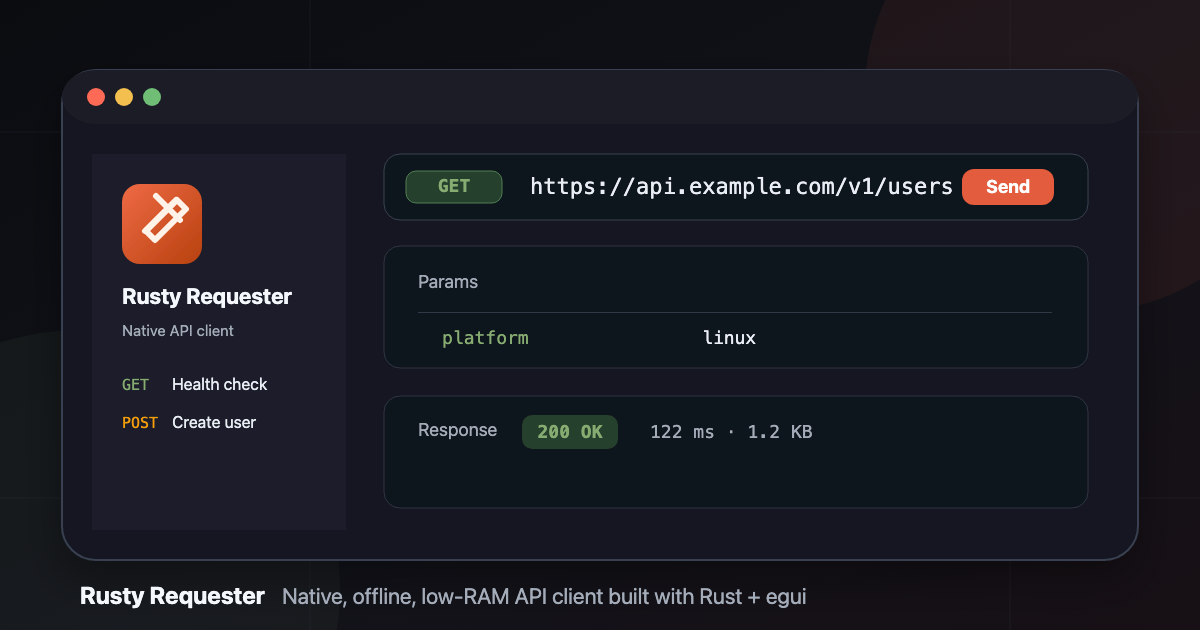
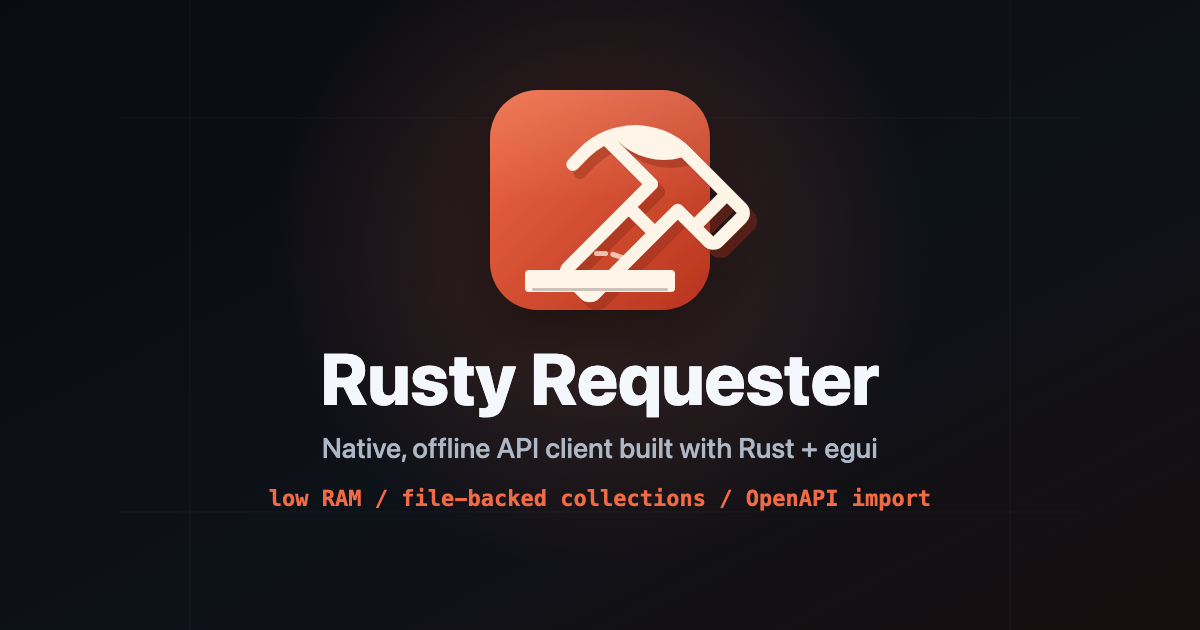
Add response find navigation

diff --git a/src/ui/response.rs b/src/ui/response.rs
@@ -4,7 +4,7 @@
 //! empty state.
 
 use crate::model::*;
-use crate::snippet::build_json_layout_job_content_only_with_search;
+use crate::snippet::build_json_layout_job_content_only_with_search_active;
 use crate::theme::*;
 use crate::widgets::*;
 use crate::ApiClient;
@@ -527,17 +527,24 @@ impl ApiClient {
                                             .color(muted()),
                                         );
                                         let close_w = 22.0;
+                                        if self.body_search_query != self.body_search_last_query {
+                                            self.body_search_last_query =
+                                                self.body_search_query.clone();
+                                            self.body_search_active_match = 0;
+                                        }
                                         let match_count = count_case_insensitive_matches(
                                             &self.response_text,
                                             &self.body_search_query,
                                         );
-                                        let count_text = if self.body_search_query.is_empty() {
-                                            String::new()
-                                        } else {
-                                            format!("{} hit{}", match_count, plural(match_count))
-                                        };
-                                        let count_w =
-                                            if count_text.is_empty() { 0.0 } else { 58.0 };
+                                        if self.body_search_active_match >= match_count {
+                                            self.body_search_active_match = 0;
+                                        }
+                                        let count_text = response_find_count_text(
+                                            &self.body_search_query,
+                                            match_count,
+                                            self.body_search_active_match,
+                                        );
+                                        let count_w = response_find_count_width(&count_text);
                                         let gap_w = if count_text.is_empty() {
                                             ui.spacing().item_spacing.x
                                         } else {
@@ -559,11 +566,24 @@ impl ApiClient {
                                             self.body_search_focus_pending = false;
                                             search_resp.request_focus();
                                         }
-                                        if search_resp.has_focus()
-                                            && ui.input(|i| i.key_pressed(egui::Key::Escape))
-                                        {
-                                            self.body_search_visible = false;
-                                            self.body_search_query.clear();
+                                        if search_resp.has_focus() {
+                                            if ui.input(|i| i.key_pressed(egui::Key::Escape)) {
+                                                self.body_search_visible = false;
+                                                self.body_search_query.clear();
+                                                self.body_search_last_query.clear();
+                                                self.body_search_active_match = 0;
+                                            }
+                                            if ui.input(|i| i.key_pressed(egui::Key::Enter))
+                                                && match_count > 0
+                                            {
+                                                let backward = ui.input(|i| i.modifiers.shift);
+                                                self.body_search_active_match =
+                                                    next_search_match_index(
+                                                        self.body_search_active_match,
+                                                        match_count,
+                                                        backward,
+                                                    );
+                                            }
                                         }
 
                                         if !count_text.is_empty() {
@@ -579,6 +599,8 @@ impl ApiClient {
                                         if close_x_button(ui, "Close search").clicked() {
                                             self.body_search_visible = false;
                                             self.body_search_query.clear();
+                                            self.body_search_last_query.clear();
+                                            self.body_search_active_match = 0;
                                         }
                                     },
                                 );
@@ -592,6 +614,8 @@ impl ApiClient {
             if self.body_search_visible {
                 self.body_search_visible = false;
                 self.body_search_query.clear();
+                self.body_search_last_query.clear();
+                self.body_search_active_match = 0;
             } else {
                 self.body_search_visible = true;
                 self.body_search_focus_pending = true;
@@ -864,11 +888,14 @@ impl ApiClient {
                                             .join("\n");
                                         let mut buf: &str = &displayed_text;
                                         let search = self.body_search_query.clone();
+                                        let active_match = self.body_search_active_match;
                                         let mut layouter =
                                             move |ui: &egui::Ui, s: &str, wrap_width: f32| {
                                                 let mut job =
-                                                    build_json_layout_job_content_only_with_search(
-                                                        s, &search,
+                                                    build_json_layout_job_content_only_with_search_active(
+                                                        s,
+                                                        &search,
+                                                        Some(active_match),
                                                     );
                                                 job.wrap.max_width = wrap_width;
                                                 ui.fonts(|f| f.layout_job(job))
@@ -1034,7 +1061,25 @@ fn render_response_metric(ui: &mut egui::Ui, value: &str) -> egui::Response {
 }
 
 fn response_find_width(available_width: f32) -> f32 {
-    available_width.clamp(0.0, 340.0)
+    available_width.clamp(0.0, 360.0)
+}
+
+fn response_find_count_text(query: &str, match_count: usize, active_match: usize) -> String {
+    if query.is_empty() {
+        String::new()
+    } else if match_count == 0 {
+        "0/0".to_string()
+    } else {
+        format!("{}/{}", active_match + 1, match_count)
+    }
+}
+
+fn response_find_count_width(count_text: &str) -> f32 {
+    if count_text.is_empty() {
+        0.0
+    } else {
+        (count_text.chars().count() as f32 * 7.0 + 14.0).clamp(42.0, 96.0)
+    }
 }
 
 fn response_find_input_width(
@@ -1056,11 +1101,13 @@ fn count_case_insensitive_matches(text: &str, query: &str) -> usize {
     text.match_indices(&query).count()
 }
 
-fn plural(count: usize) -> &'static str {
-    if count == 1 {
-        ""
+fn next_search_match_index(current: usize, match_count: usize, backward: bool) -> usize {
+    if match_count == 0 {
+        0
+    } else if backward {
+        current.checked_sub(1).unwrap_or(match_count - 1)
     } else {
-        "s"
+        (current + 1) % match_count
     }
 }
 
@@ -1768,13 +1815,30 @@ mod tests {
     fn response_find_width_is_bounded_for_narrow_and_wide_toolbars() {
         assert_eq!(response_find_width(120.0), 120.0);
         assert_eq!(response_find_width(240.0), 240.0);
-        assert_eq!(response_find_width(600.0), 340.0);
+        assert_eq!(response_find_width(600.0), 360.0);
     }
 
     #[test]
     fn response_find_input_width_reserves_count_and_close_controls() {
         assert_eq!(response_find_input_width(220.0, 0.0, 22.0, 6.0), 192.0);
-        assert_eq!(response_find_input_width(220.0, 58.0, 22.0, 12.0), 128.0);
-        assert_eq!(response_find_input_width(90.0, 58.0, 22.0, 12.0), 72.0);
+        assert_eq!(response_find_input_width(220.0, 42.0, 22.0, 12.0), 144.0);
+        assert_eq!(response_find_input_width(90.0, 42.0, 22.0, 12.0), 72.0);
+    }
+
+    #[test]
+    fn response_find_count_text_shows_active_and_total() {
+        assert_eq!(response_find_count_text("", 0, 0), "");
+        assert_eq!(response_find_count_text("ok", 0, 0), "0/0");
+        assert_eq!(response_find_count_text("ok", 3, 0), "1/3");
+        assert_eq!(response_find_count_text("ok", 3, 2), "3/3");
+    }
+
+    #[test]
+    fn response_find_enter_navigation_wraps() {
+        assert_eq!(next_search_match_index(0, 0, false), 0);
+        assert_eq!(next_search_match_index(0, 3, false), 1);
+        assert_eq!(next_search_match_index(2, 3, false), 0);
+        assert_eq!(next_search_match_index(0, 3, true), 2);
+        assert_eq!(next_search_match_index(2, 3, true), 1);
     }
 }

diff --git a/src/snippet.rs b/src/snippet.rs
@@ -248,7 +248,7 @@ pub fn build_json_layout_job_with_search(text: &str, search: &str) -> LayoutJob 
         highlight_json_line(&mut job, line, &font);
     }
     if let Some(q) = search_opt {
-        apply_search_highlight(&mut job, text, q);
+        apply_search_highlight(&mut job, text, q, None);
     }
     job
 }
@@ -257,6 +257,17 @@ pub fn build_json_layout_job_with_search(text: &str, search: &str) -> LayoutJob 
 /// line-number gutter. Pair with a separately-rendered gutter column
 /// so wrapped continuation rows don't collide with the line numbers.
 pub fn build_json_layout_job_content_only_with_search(text: &str, search: &str) -> LayoutJob {
+    build_json_layout_job_content_only_with_search_active(text, search, None)
+}
+
+/// Content-only JSON layout with a stronger background on the active
+/// zero-based search result. `active_match = None` highlights all matches
+/// with the regular search color.
+pub fn build_json_layout_job_content_only_with_search_active(
+    text: &str,
+    search: &str,
+    active_match: Option<usize>,
+) -> LayoutJob {
     let font = FontId::monospace(12.5);
     let mut job = LayoutJob::default();
     let search_lc = search.to_lowercase();
@@ -273,7 +284,7 @@ pub fn build_json_layout_job_content_only_with_search(text: &str, search: &str) 
         highlight_json_line(&mut job, line, &font);
     }
     if let Some(q) = search_opt {
-        apply_search_highlight(&mut job, text, q);
+        apply_search_highlight(&mut job, text, q, active_match);
     }
     job
 }
@@ -282,11 +293,18 @@ pub fn build_json_layout_job_content_only_with_search(text: &str, search: &str) 
 /// substring-matches `query` (case-insensitive). We walk the
 /// accumulated sections, find match ranges in the section's own text,
 /// and split sections so only matched chars get the highlight bg.
-fn apply_search_highlight(job: &mut LayoutJob, _full_text: &str, query: &str) {
+fn apply_search_highlight(
+    job: &mut LayoutJob,
+    _full_text: &str,
+    query: &str,
+    active_match: Option<usize>,
+) {
     let sections = std::mem::take(&mut job.sections);
     let text = job.text.clone();
     job.text.clear();
     let bg = Color32::from_rgba_unmultiplied(206, 66, 43, 120); // rust-orange highlight
+    let active_bg = Color32::from_rgba_unmultiplied(239, 106, 69, 210);
+    let mut seen = 0usize;
 
     for sec in sections {
         let slice = &text[sec.byte_range.clone()];
@@ -301,7 +319,18 @@ fn apply_search_highlight(job: &mut LayoutJob, _full_text: &str, query: &str) {
             if match_start > cursor {
                 append_section(job, &slice[cursor..match_start], &sec.format, None);
             }
-            append_section(job, &slice[match_start..match_end], &sec.format, Some(bg));
+            let match_bg = if active_match == Some(seen) {
+                active_bg
+            } else {
+                bg
+            };
+            append_section(
+                job,
+                &slice[match_start..match_end],
+                &sec.format,
+                Some(match_bg),
+            );
+            seen += 1;
             cursor = match_end;
             if cursor >= slice_lc.len() {
                 break;

diff --git a/src/main.rs b/src/main.rs
@@ -360,6 +360,12 @@ struct ApiClient {
     /// Search query for the JSON body view — highlights matches inline
     /// rather than filtering out non-matches.
     body_search_query: String,
+    /// Zero-based active response-body search result. Enter / Shift+Enter
+    /// advances this index while the inline search field is focused.
+    body_search_active_match: usize,
+    /// Last query used to compute `body_search_active_match`. When the
+    /// query changes, the active result resets to the first match.
+    body_search_last_query: String,
     /// Whether the inline search input is visible (toggled by the 🔍
     /// icon button in the body toolbar, or Cmd/Ctrl+F).
     body_search_visible: bool,
@@ -568,6 +574,8 @@ impl Default for ApiClient {
             body_view: BodyView::Json,
             body_tree_filter: String::new(),
             body_search_query: String::new(),
+            body_search_active_match: 0,
+            body_search_last_query: String::new(),
             body_search_visible: false,
             body_search_focus_pending: false,
             folded_response_lines: HashSet::new(),

diff --git a/CHANGELOG.md b/CHANGELOG.md
@@ -11,6 +11,13 @@ releases (everything below) shipped a lot of stuff fast and made
 breaking-format changes only when guarded by `#[serde(default)]`, so
 upgrades read old files cleanly.
 
+## Unreleased
+
+### Added
+- **Response body search navigation.** Find-in-body now shows the active match
+  position and total matches, supports Enter / Shift+Enter navigation, and
+  highlights the active match more strongly.
+
 ## [0.27.12] — 2026-06-19
 
 ### Fixed